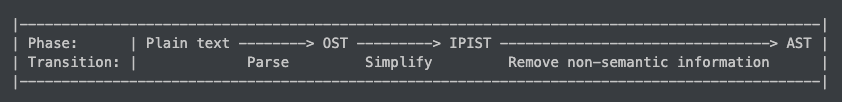
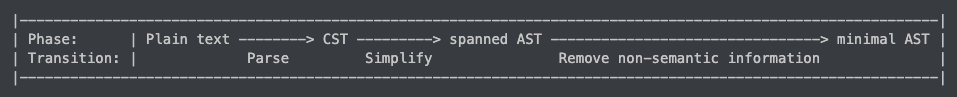
Update glossary

diff --git a/glossary.md b/glossary.md
@@ -8,33 +8,66 @@ with the ordinary definitions.
 - app: (function) application
 - AST: abstract syntax tree.
 
-  **AST nodes only contain semantically relevant information.**
+  ASTs are divided into _families_
+  depending on what kind of auxiliary data
+  they hold.
+  Here are the AST families:
+
+  - minimal AST: Minimal AST nodes have no auxiliary data.
+
+  - spanned AST: Each node of a spanned AST stores
+    the node's span in its auxiliary data.
+
+- auxiliary data: AST data that does not determine
+  a node's semantic value.
+  One example might include spans.
+  Another example might include a node's type.
+
+- CST: concrete syntax tree.
+  The parser constructors this tree.
+  The tree is later converted into a spanned AST.
+
+- deb: De Bruijn index
+
+- digest: the output of a hash algorithm.
+  Unless otherwise specified, "digest" refers to
+  a SHA256 digest.
+
+- ind: inductive data type definition
+
+- minimal AST: An AST that
+  **only contains semantically relevant information.**
   This implies that any two AST nodes are equal
   under Rust's `std::cmp::Eq` iff
   they are semantically equal under Zo's semantic rules.
 
-- deb: De Bruijn index
-- digest: the output of a hash algorithm.
-  Unless otherwise specified, "digest" refers to
-  a SHA256 digest.
-- ind: inductive data type definition
-- IPIST: information-preserving intermediate syntax tree.
-  This is an intermediate representation of the OST.
-
-  It is "information-preserving" in the sense that
-  there is a one-to-one correspondence between OSTs and IPISTs.
-  This implies that you can _always_
-  reconstruct an OST from an IPIST.
-
 - NG: no good - unacceptable. This is the opposite of OK.
-
 - OK: okay - acceptable. This is the opposite of NG.
-
-- OST: original syntax tree.
-  The parser constructors this tree.
-  The tree is later converted into an IPIST,
-  and then into an AST.
 - RC: reference counted
+
+- span: the location of a syntax tree node in the source code.
+  For example, in the following source code...
+
+  ```zo
+  (for (Set0) 0)
+  ```
+
+  ...the `for` token has the span `(1, 4)`,
+  since it starts at index `1` and continues
+  up to but not including index `4`.
+
+  Indices start from `0`.
+  When counting, we think of strings as
+  UTF-8 encoded byte sequences
+  (as opposed to say, codepoint sequences, for example).
+  So the `hi` in `😎hi` has the span `(4, 6)`,
+  since `😎` is 4 bytes long.
+
+- spanned AST: An AST that contains the span
+  of each node
+  (i.e., the start and end position of each node
+  in the source code).
+
 - tcon: type context
 - vcon: variant constructor
 
@@ -42,10 +75,7 @@ with the ordinary definitions.
 
 You should read the fully capitalized phrases using their individual letters.
 For example, you read "AST" as "ay ess tee".
-As another example, you read "OST" as "oh ess tee".
-
-**There is one exception: "IPIST".**
-You should read "IPIST" as "eye pissed".
+As another example, you read "CST" as "see ess tee".
 
 ## Pronunciation of tcon and vcon
 
@@ -60,10 +90,10 @@ The "con" is pronounced like the English word (e.g., as in "pros and cons").
 Here is an ASCII diagram:
 
 ```plaintext
-|-----------------------------------------------------------------------------------------------|
-| Phase:      | Plain text --------> OST ---------> IPIST --------------------------------> AST |
-| Transition: |             Parse         Simplify         Remove non-semantic information      |
-|-----------------------------------------------------------------------------------------------|
+|-------------------------------------------------------------------------------------------------------------|
+| Phase:      | Plain text --------> CST ---------> spanned AST --------------------------------> minimal AST |
+| Transition: |             Parse         Simplify               Remove non-semantic information              |
+|-------------------------------------------------------------------------------------------------------------|
 ```
 
 In case the diagram renders weirdly (e.g., due to line wrapping),
